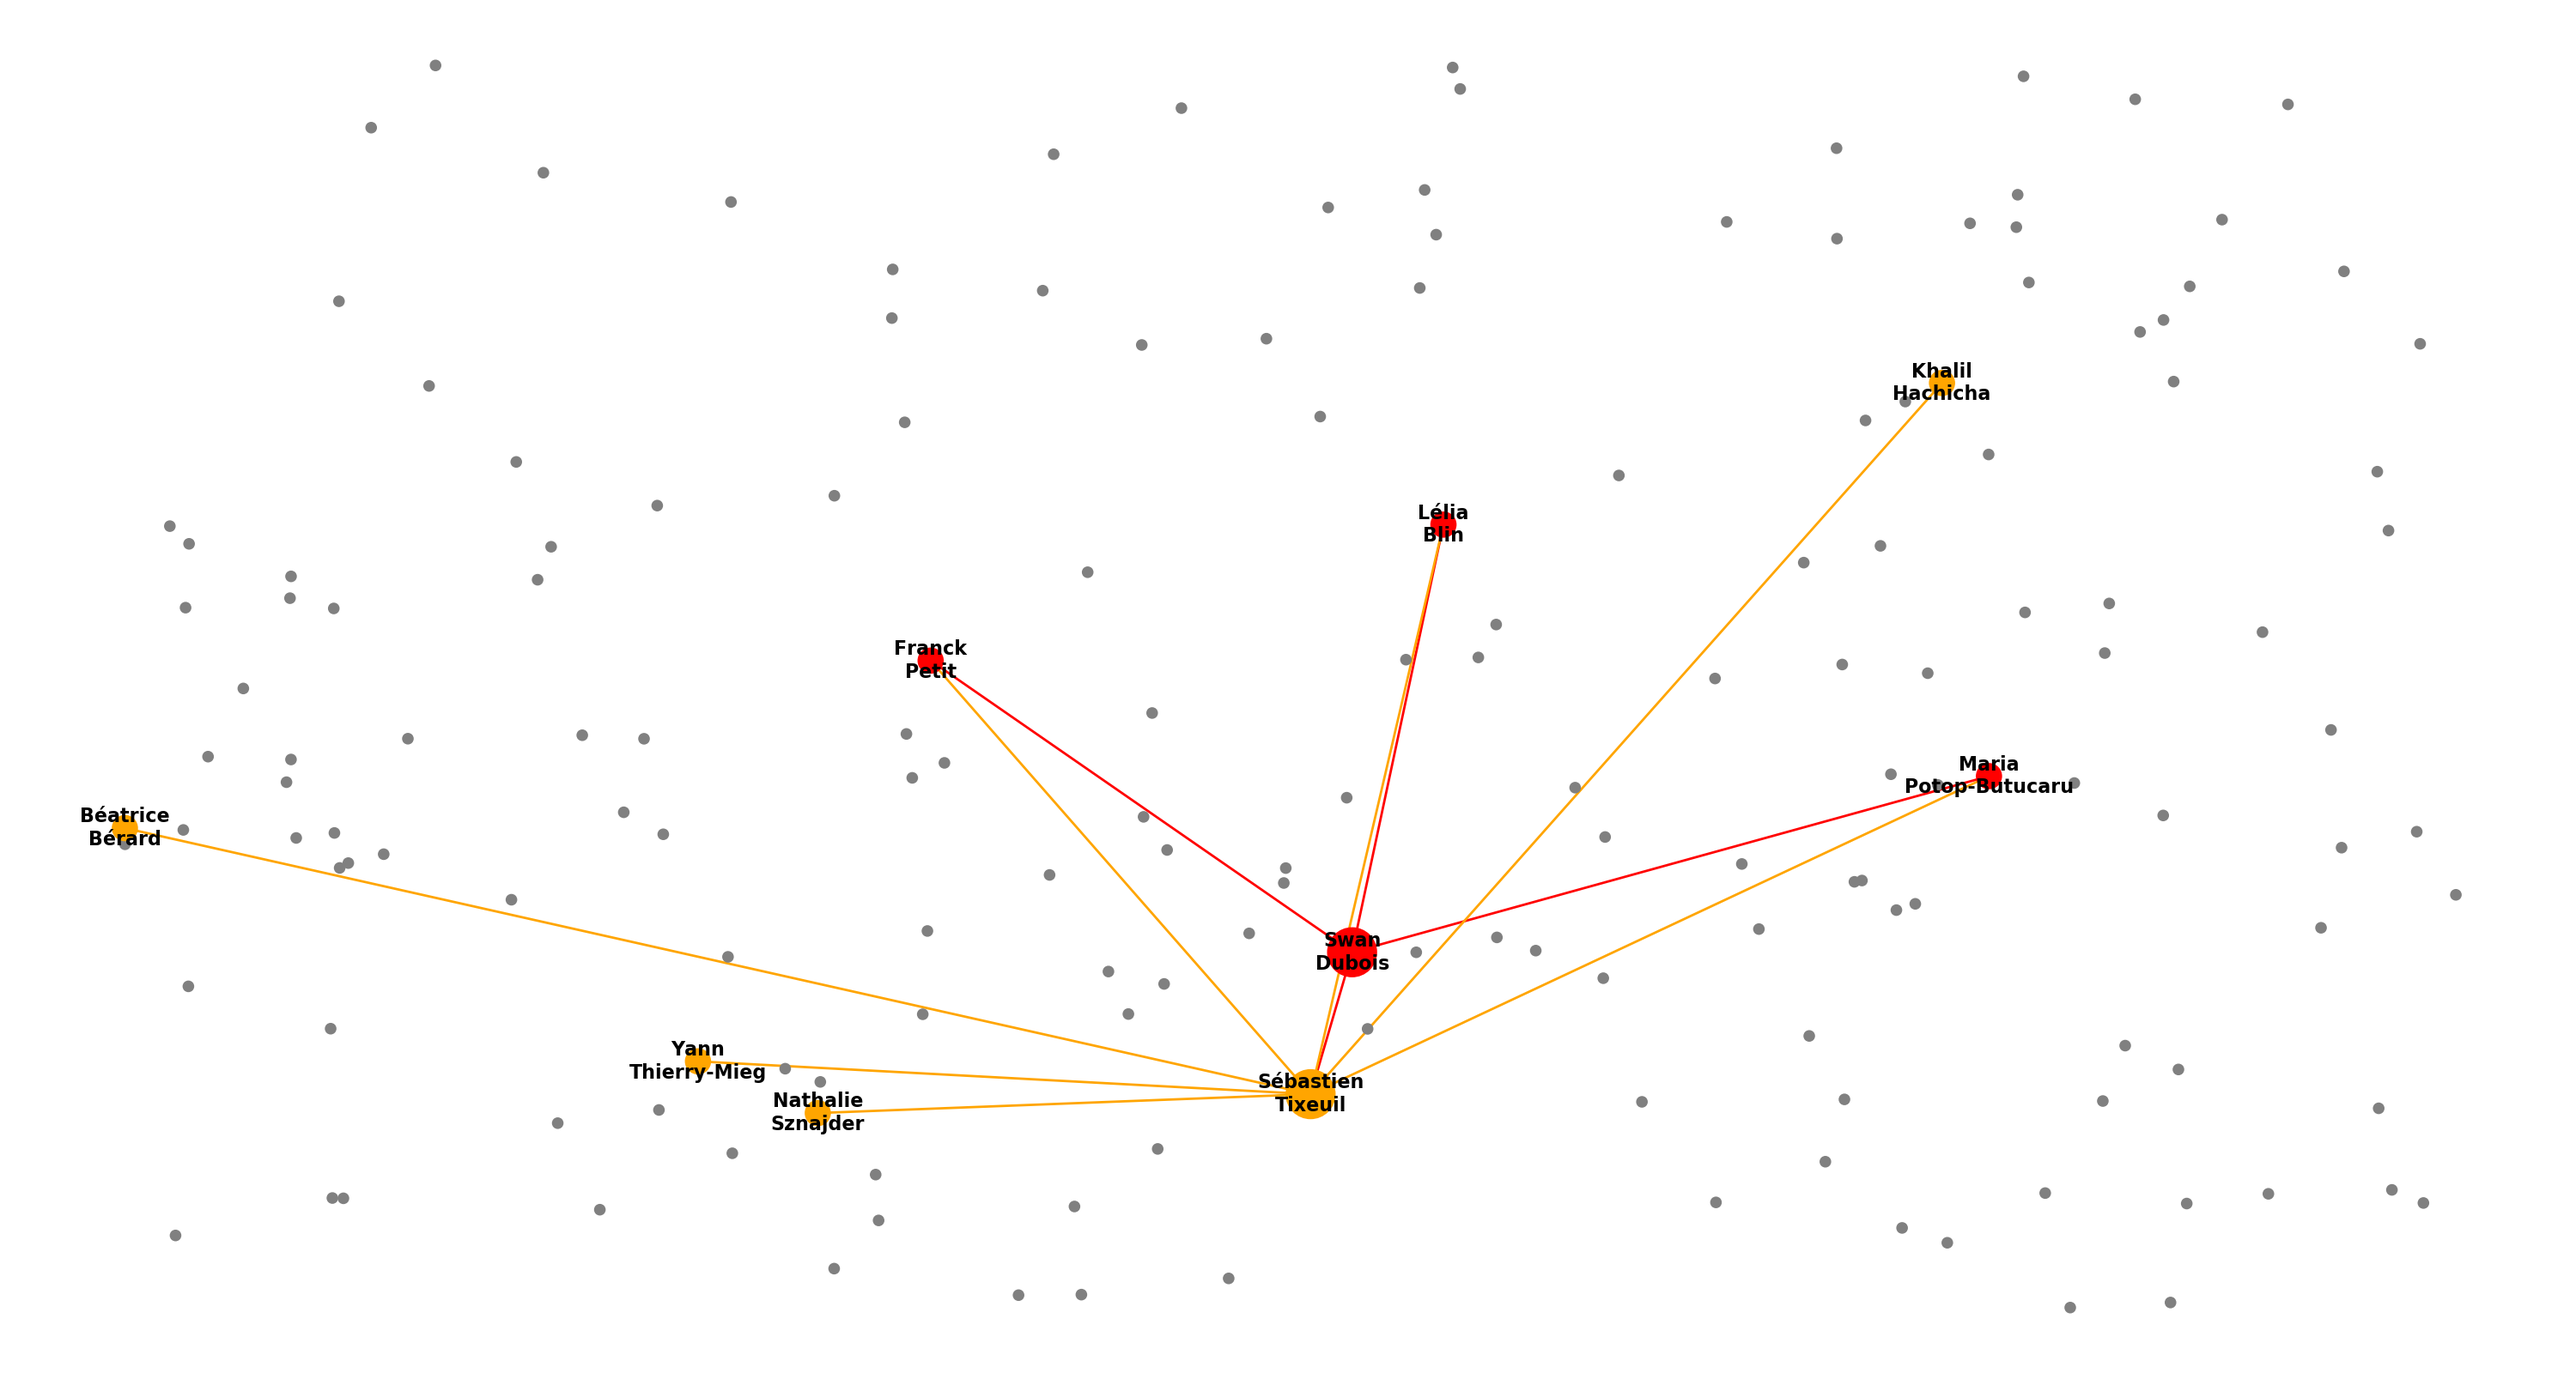
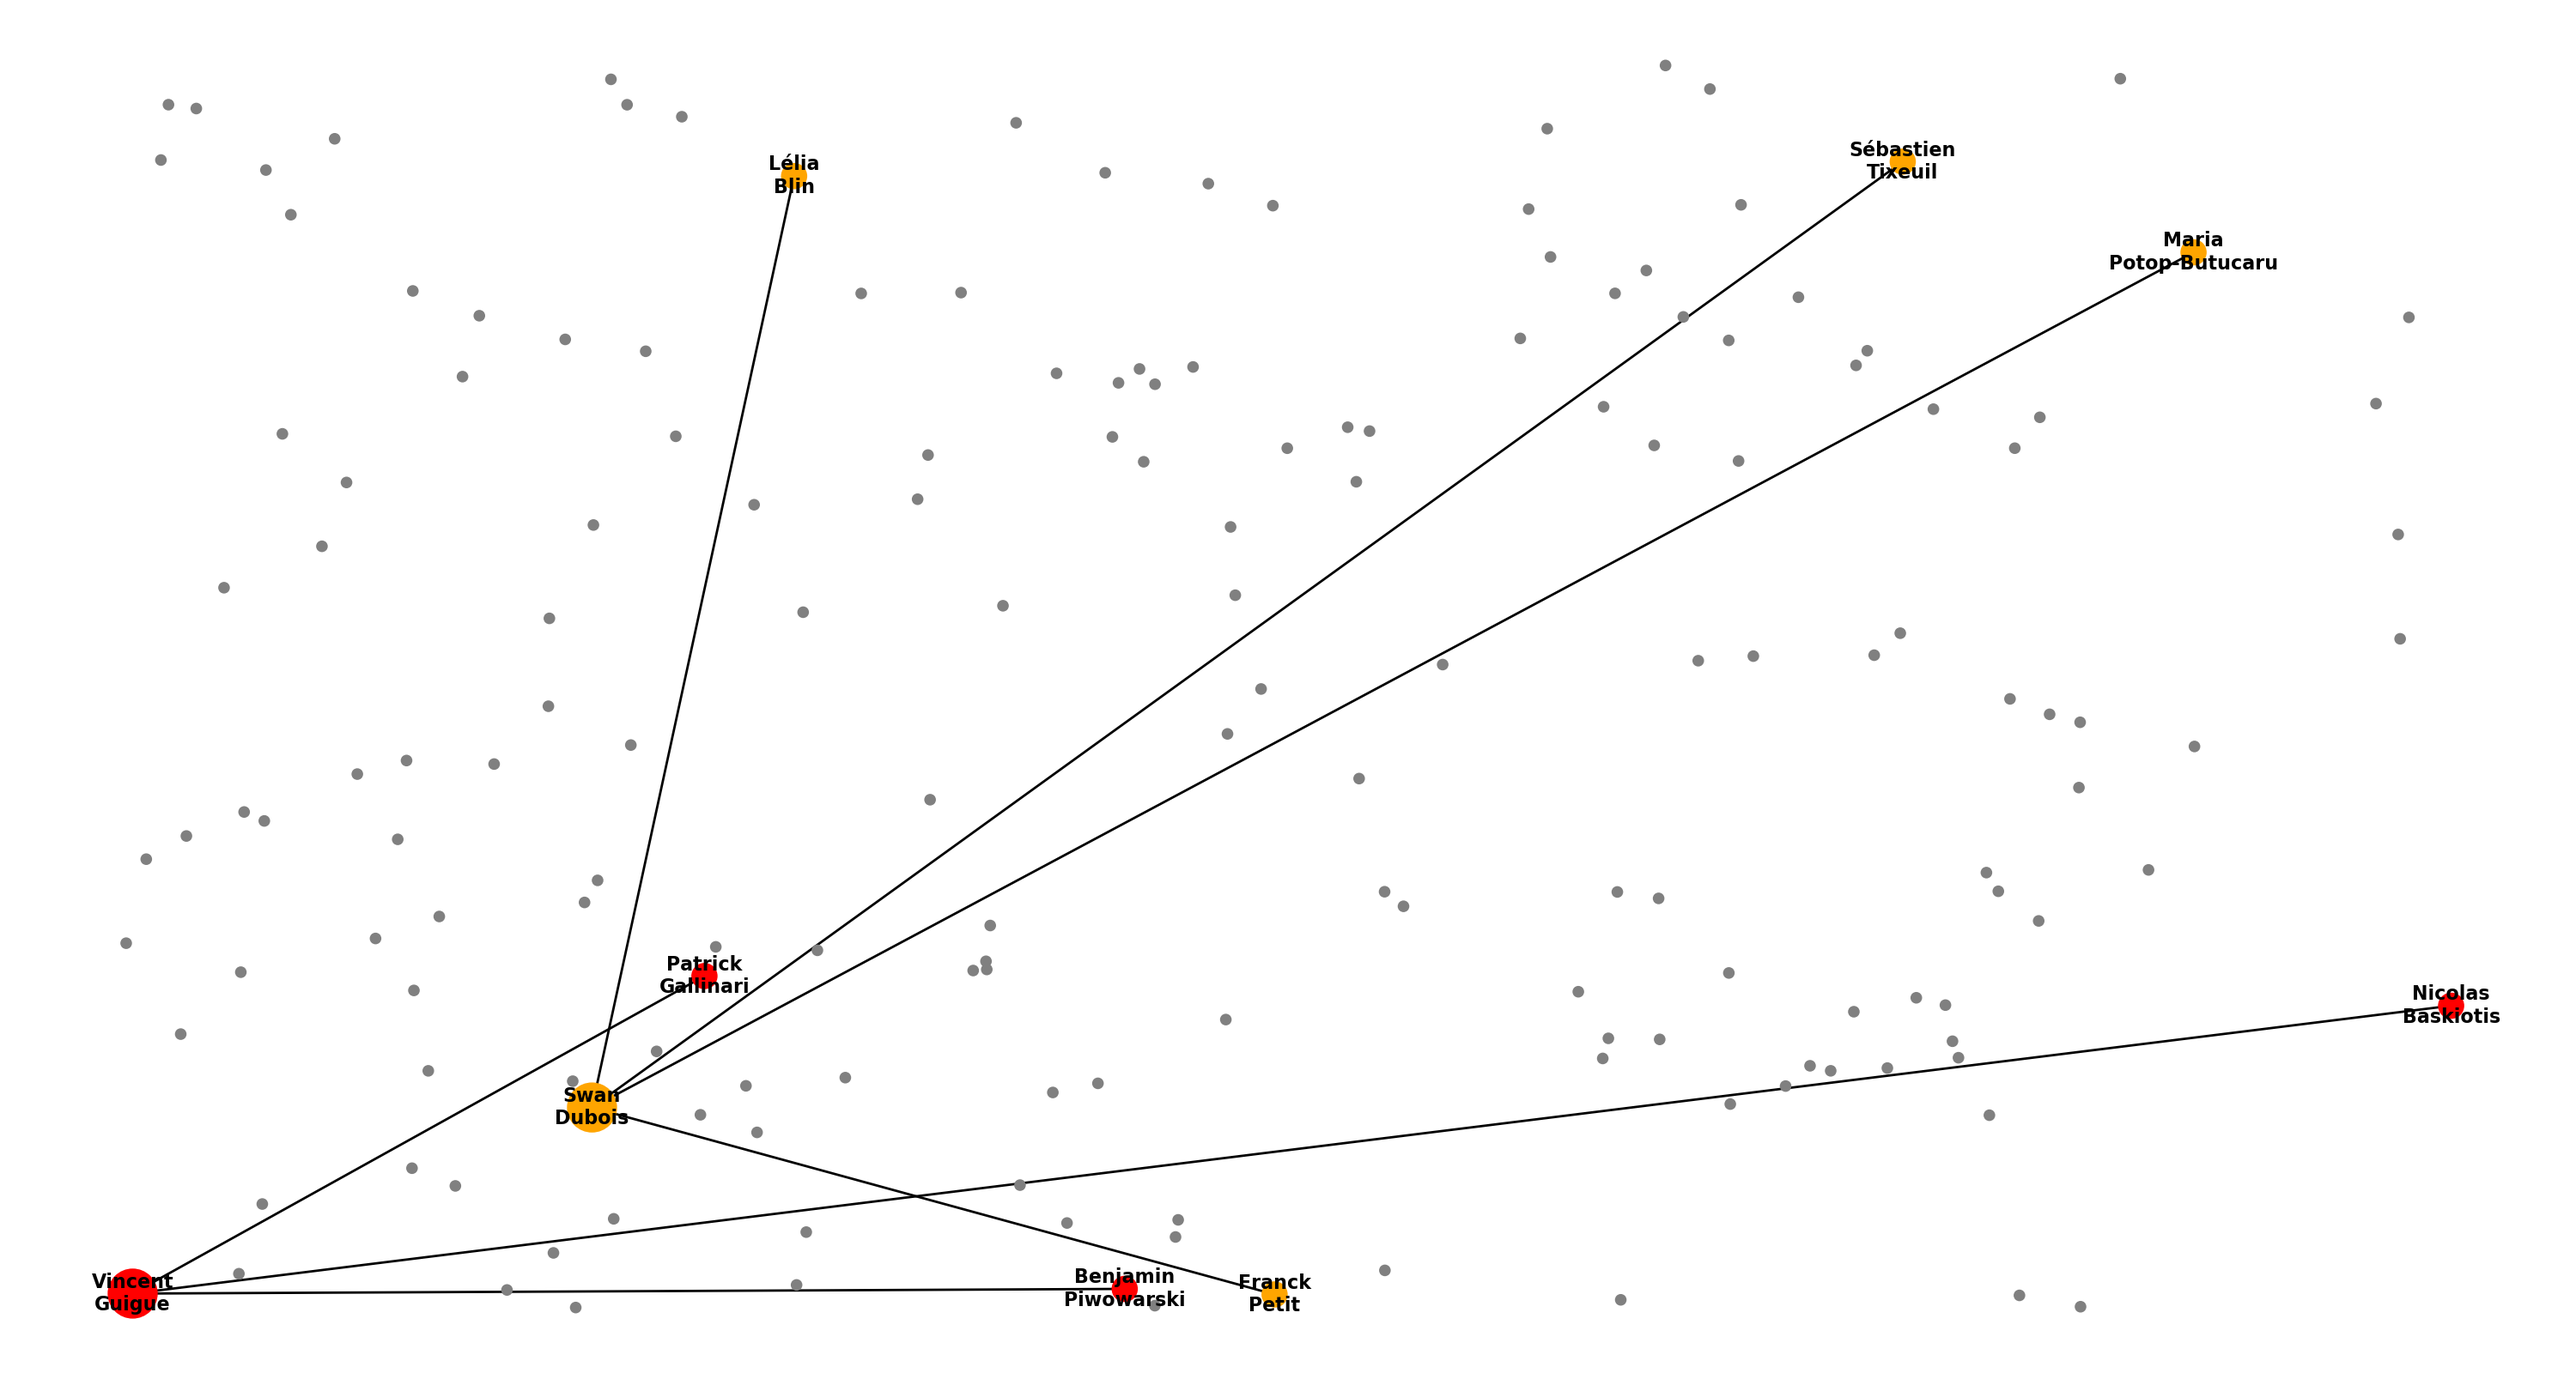
fixed few pb in graph 2 members

diff --git a/graphe.py b/graphe.py
@@ -62,11 +62,10 @@ def draw_graph_2membres(author_name1, author_name2):
 		node_labels = {}
 		nodes_size = []
 		edges = []
-		edges_color = []
 		list_coaut1 = links_dico[author_name1]
 		list_coaut2 = links_dico[author_name2]
-		#print(list_coaut1)
-		#print(list_coaut2)
+		print(author_name1, list_coaut1)
+		print(author_name2, list_coaut2)
 		for key in links_dico.keys():
 			if(key == author_name1):
 				node_labels[author_name1] = author_name1.replace(' ', '\n')
@@ -91,19 +90,18 @@ def draw_graph_2membres(author_name1, author_name2):
 
 		for elem in list_coaut1:
 			edges.append((author_name1, elem))
-			edges_color.append("red")
 
 		for elem in list_coaut2:
 			edges.append((author_name2, elem))
-			edges_color.append("orange")
 
 		G.add_edges_from(edges)
 		plt.figure(figsize=(15,8))
-		nx.draw_random(G, node_size=nodes_size, with_labels=True, labels=node_labels, node_color=color, edge_color=edges_color, font_size=8, font_weight='bold')
+		nx.draw_random(G, node_size=nodes_size, with_labels=True, labels=node_labels, node_color=color, font_size=8, font_weight='bold')
 		plt.savefig("graphe2.png", dpi=200)
 		#plt.show()
 	else:
 		print("ERROR : incorrect name authors")
+		#os.remove("graphe2.png")
 
 
 def draw_graph_all():
@@ -139,7 +137,7 @@ def draw_graph_all():
 if __name__ == '__main__':
 
 
-	#draw_graph_2membres("Auteurs/lip6.xml", get_links("Auteurs/lip6.xml"), "Swan Dubois", "Sébastien Tixeuil")
-	draw_graph_all(get_links("Auteurs/lip6.xml"))
+	draw_graph_2membres("Vincent Guigue", "Swan Dubois")
+	#draw_graph_all(get_links("Auteurs/lip6.xml"))
 	#print(liste_lip6("Auteurs/lip6.xml"))
 	#http://doc.sagemath.org/html/en/reference/graphs/sage/graphs/graph.html#graph-format

diff --git a/mini_projet.py b/mini_projet.py
@@ -495,11 +495,29 @@ def lip6():
     return static_file("grapheAll.png", root="")
 
 
-@bottle.route("/LIP6_2")
+@bottle.route("/LIP6/auteurs")
 @bottle.view("page.tpl")
-def lip6():
-    graphe.draw_graph_all()
-    #return static_file("grapheAll.png", root="")
+def lip6_v2():
+    stri = """
+    <form align='center' method='post' action='Graphe'>
+    <input type='text' name='auteur1' placeholder='Prénom Nom'/>
+    <input type='text' name='auteur2' placeholder='Prénom Nom'/>
+    <input type='submit' value='Générer'/>
+    </form>
+    """
+    return {"title":"Saisissez deux auteurs :", "body":stri}
+    #graphe.draw_graph_all()
+    
+
+
+@bottle.route("/LIP6/Graphe", method='POST')
+@bottle.view("page.tpl")
+def Graphe():
+    auteur1 = bottle.request.forms.auteur1
+    auteur2 = bottle.request.forms.auteur2
+    print(auteur1, auteur2)
+    graphe.draw_graph_2membres(auteur1, auteur2)
+    return static_file("graphe2.png", root="")
 
 
 
